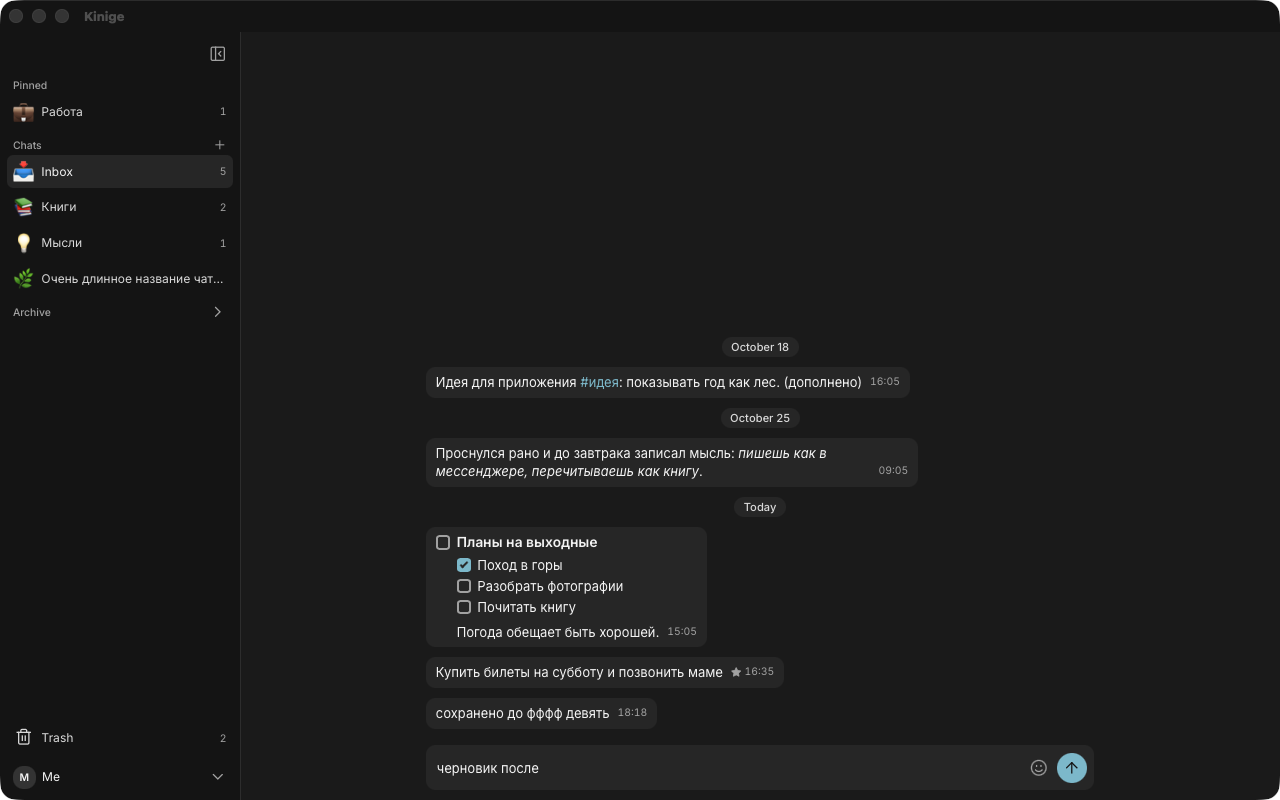
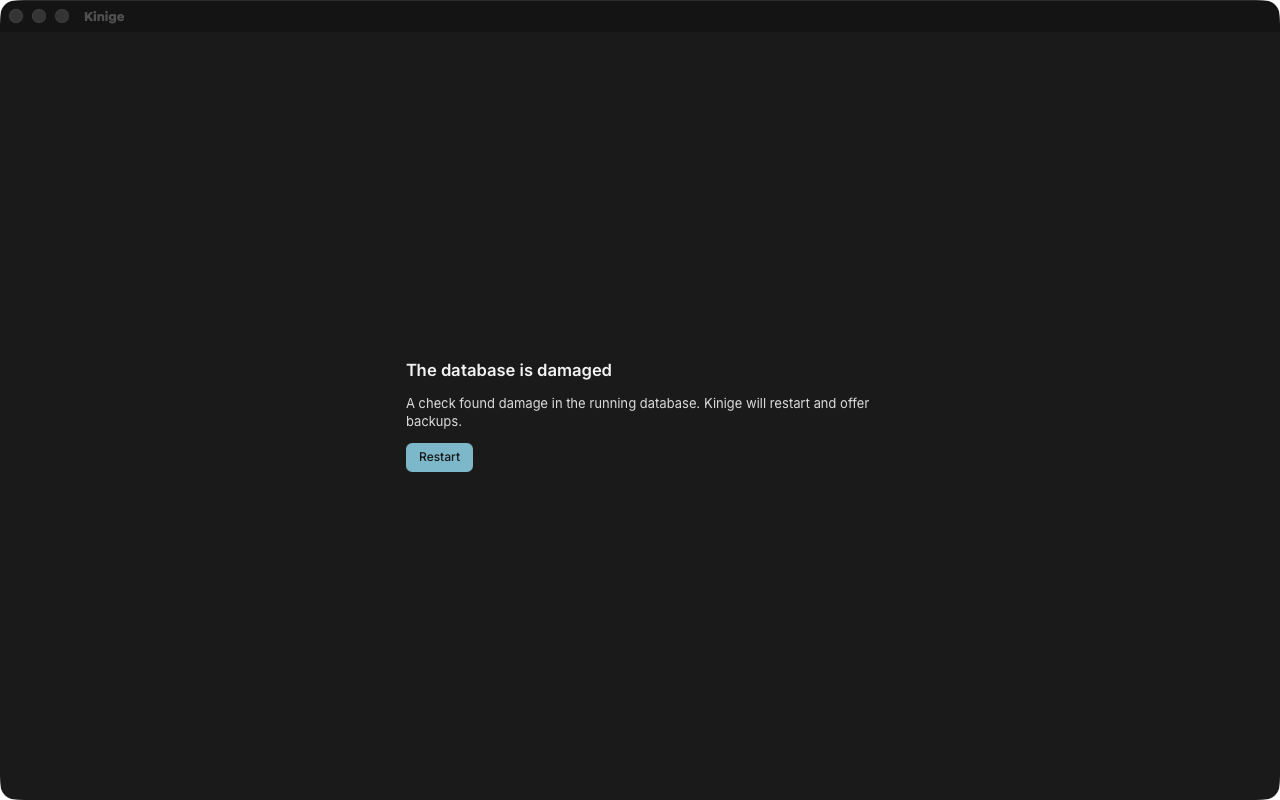
ADR-0007 emoji picker; spec fixes

diff --git a/docs/slices/3-chats-and-editing.md b/docs/slices/3-chats-and-editing.md
@@ -64,7 +64,7 @@
 
 **Отступления и уточнения:**
 1. **Запись с группой в неподдерживаемой `sv` — только для чтения целиком** (`read_only`, пункты меню недоступны, команды дают `read_only`). Пункт проверок «`sv: 2` переживает перезапись чужой группы» в таком виде невозможен: перезаписи такой записи нет. Дословно переживают перезаписи неизвестные **группы** (по имени) и неизвестные поля известных групп при `sv = 1`; группа с `sv > 1` блокирует всю запись.
-2. **Тег из одних цифр (`#2026`) — не тег** (иначе «#1» из списка и номера задач заполняли бы фильтры); буквы любого алфавита, цифры и `_`, хотя бы одна не цифра.
+2. **Тег из одних цифр (`#2026`) — не тег** (`#1` — номер, а не тема; правило ввёл Rust, в спецификации его не было): буквы любого алфавита, цифры и `_`, хотя бы один знак — не цифра.
 3. **Повреждённая запись в корзине.** Purge читает только `hlc_json` и `deleted_at`; снимок `purged_of` собирается по возможности (нечитаемые группы пропускаются, tombstone остаётся); запись с нечитаемым `hlc_json` целиком остаётся в корзине и показывает ошибку, проход обслуживания идёт дальше (флаг `purge_failed` виден в «Настройках»). Запись с группой `deleted` в неподдерживаемой `sv` автоудалением не трогается, вручную — `read_only`.
 4. **Состояние «база новее приложения»** (§10.4) выделено отдельно: код `database_too_new`, `StartupState.databaseTooNew`, экран без кнопок; файл не меняется, папка копий не создаётся.
 5. **Восстановление.** Перезапуск после повреждения работающей базы разрешён только при отметке `needs-recovery`; отметка при запуске перепроверяется синхронно (не подтвердилась — снимается); восстановление выполняется один раз за раз, помечено файлом `restoring` и после сбоя повторяется; папка Markdown-копии переименовывается в `<имя>-before-restore-<метка>`, все дни помечаются на перезапись; `device_id` создаётся новый.
@@ -87,5 +87,5 @@
 - **Слайс 11 (синхронизация):** формат ревизии `edit`, `tombstone` (`purged_of`, `cascade_of`, `held`) и первая перезапись `placement` описаны в ADR-0001, приложение §A.0 и §C.2; `chain_fields` при переполнении цепочки `supersedes` отбрасывает **наименьший HLC** (а не «старейший по порядку записи»). Ревизии `conflict` и подтверждение сервером по-прежнему покрыты тестами на уровне записи.
 - **Проверка целостности раз в сутки:** при долгом сеансе повреждение найдётся не раньше полуночи; если это недопустимо, добавить проверку после каждого N-го коммита или кнопку «Проверить сейчас» в «Настройках».
 - **Окно «База повреждена» и single-instance:** перезапуск через `app.restart()` проверен вживую на сборке с отдельным `identifier`; с рабочим `identifier` рядом запущенный экземпляр пользователя заберёт запуск себе — это свойство плагина, не слайса.
-- **Правка и большие записи:** поле правки растёт по высоте без ограничения, пока запись не упрётся в лимит 512 КиБ; для очень длинных записей нужна внутренняя прокрутка (токен максимальной высоты поля).
+- **Правка и большие записи:** максимальной высоты поля правки нет (поведение на очень длинных записях не проверялось); при необходимости — внутренняя прокрутка и токен максимальной высоты.
 - **Пикер:** названия категорий в русских данных `emojibase` местами корявые («тело людей», «флаг»); если важно, завести свои подписи в `emoji.*`.

diff --git a/docs/adr/0007-emoji-picker.md b/docs/adr/0007-emoji-picker.md
@@ -1,0 +1,17 @@
+# ADR-0007: Эмодзи-пикер — frimousse и данные emojibase в бандле
+
+Дата: 2026-10-27. Статус: **принято** (слайс 3). ТЗ §2.1, §5, §16; ADR-0004 (токены), ADR-0005 (i18n).
+
+## Контекст
+Слайс 3: один пикер для поля ввода и для окна чата; поиск по названию на русском и английском; «недавние»; без сети (local-first, CSP не расширяется); вид только из токенов.
+
+## Решение
+- **`frimousse` 0.4.0** (MIT, безголовая библиотека: список, поиск, клавиатура, виртуальные строки; вид — наш CSS на токенах). Peer-зависимость — React 18 или 19 (у нас 19). Проверено по `package.json` пакета и его исходникам (`resolveEmojiData`: данные можно подать своей функцией, а не с CDN). Версия выбрана как старше двух недель.
+- **`emojibase-data` 17.0.0** (MIT): `en` и `ru` в бандле, подгружаются динамическим `import()` при первом открытии пикера (два чанка, ≈ 96 и 110 КБ после gzip). Поиск идёт по обоим языкам сразу, поэтому на русском интерфейсе находится и «собака», и `dog`. Версия 18.0.0 отвергнута: опубликована меньше двух недель назад. Типы JSON подтягиваются из `emojibase` как peer-зависимость, напрямую пакет не импортируется.
+- «Недавние» — до 24 эмодзи в `app_setting` (Rust); в `localStorage` и кэш библиотеки ничего не пишется.
+- Какие версии Unicode Emoji система умеет рисовать, пикер определяет через canvas (как в самой библиотеке); запасной порог без canvas — 15.1, **из памяти, не проверен**.
+
+## Последствия
+- Новые зависимости веб-части: `frimousse`, `emojibase-data` (+ `emojibase` как peer). Сети нет, CSP не менялась (`script-src 'self'` разрешает чанки).
+- jsdom не раскладывает виртуальный список, поэтому тесты подставляют размеры и `ResizeObserver` (`web/src/test/emoji.tsx`); раскладку показывают истории Storybook и живое окно.
+- Названия категорий в русских данных местами корявые («тело людей»); при необходимости — свои подписи в `emoji.*`.
